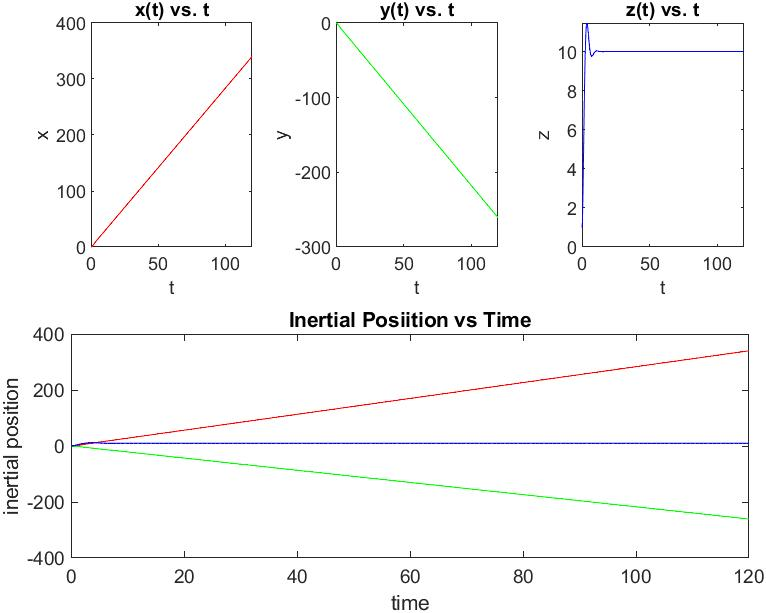
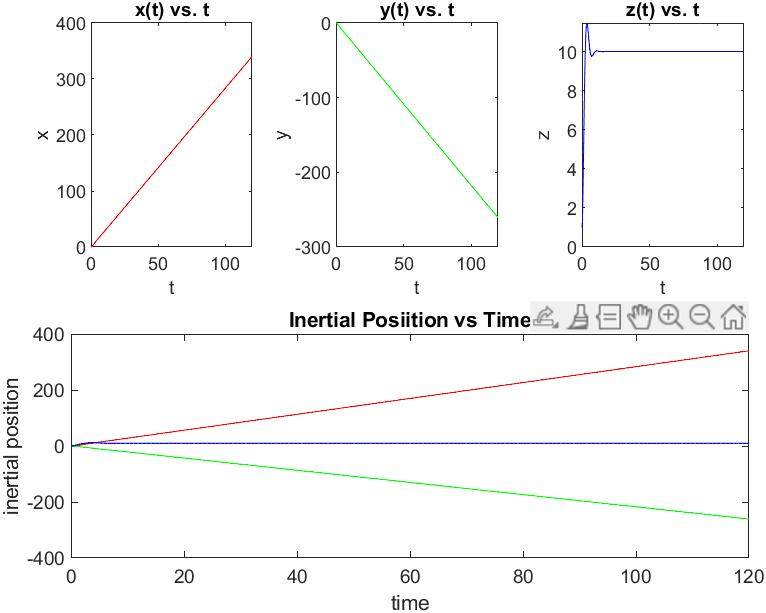
typo

Changed region(s): [[0.6906, 0.4959, 0.9909, 0.5579]]

diff --git a/AERSP304_Proj2.m b/AERSP304_Proj2.m
@@ -93,7 +93,7 @@ function ploter(t,x,Q)
     plot(t,x(:,1),'r',t,x(:,3),'g',t,x(:,5),'b')
     xlabel('time');
     ylabel('inertial position');
-    title('Inertial Posiition vs Time')
+    title('Inertial Position vs Time')
     exportgraphics(f,['inertial position' Q '.jpg'])
     
     for i = 1:size(x,1)                                         % converts from the inertial frame to the body frame
